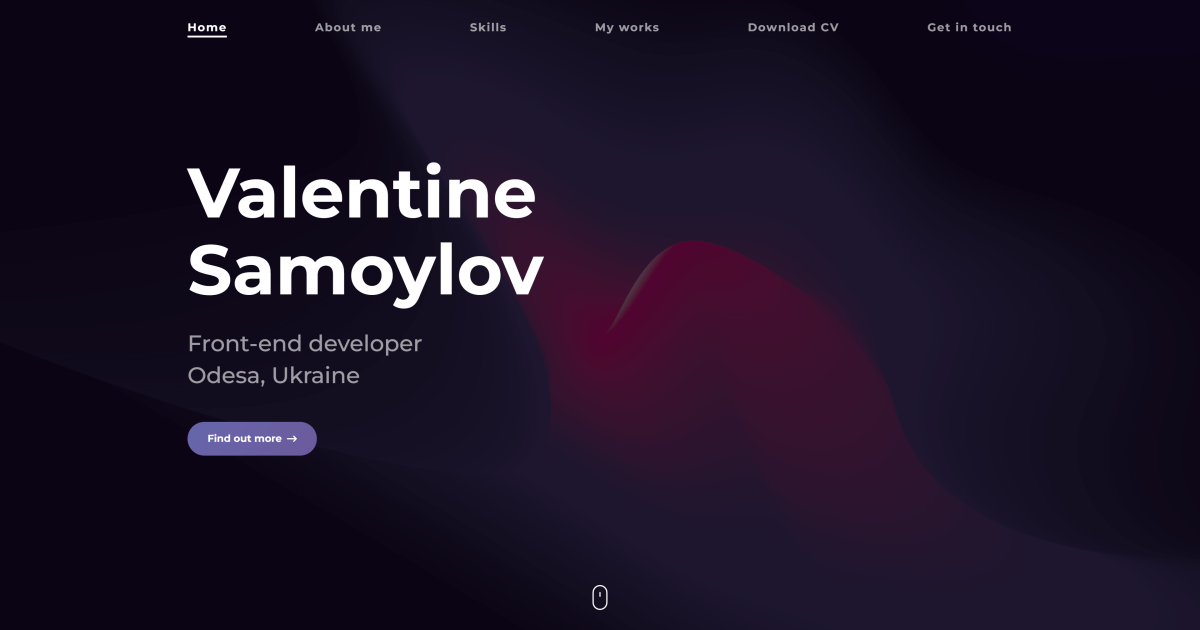
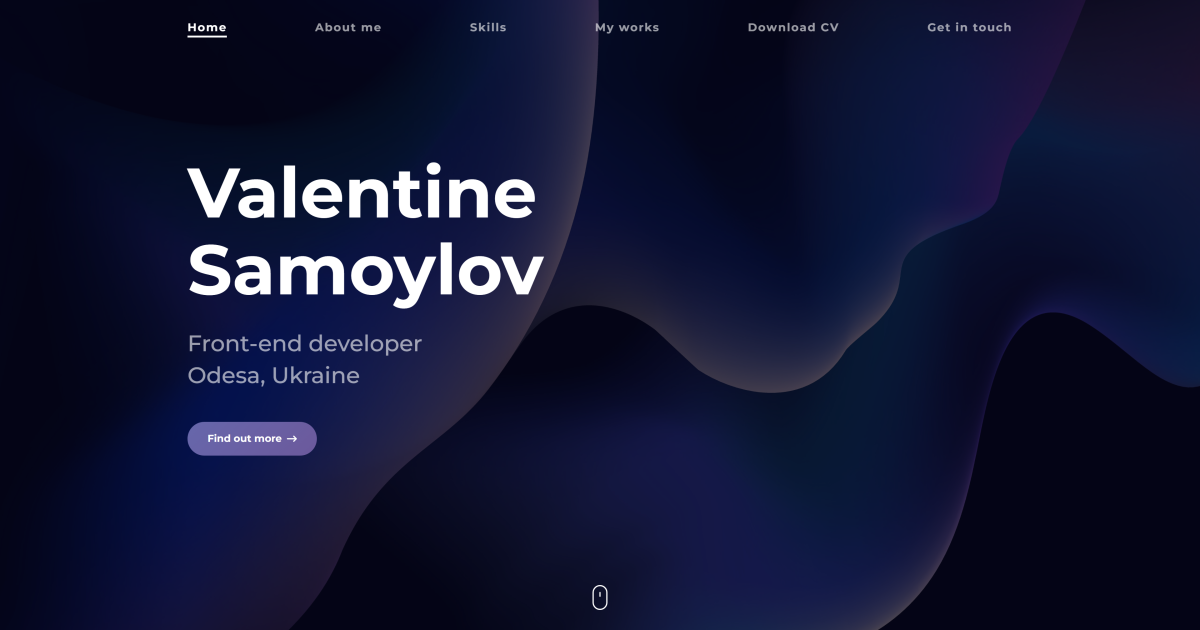
BG image and og-preview have been changed.

diff --git a/src/components/Hero/Hero.jsx b/src/components/Hero/Hero.jsx
@@ -7,7 +7,7 @@ import './Hero.scss'
 import Container from '@components/Container/Container'
 import Button from '../Button/Button'
 import IconArrowRight from '@assets/images/svg/arrow-right-long.svg'
-import bgImage from '@assets/images/bg/bg.png?as=webp'
+import bgImage from '@assets/images/bg/bg.jpg?as=webp'
 
 const buttonProps = {
   as: 'a',
